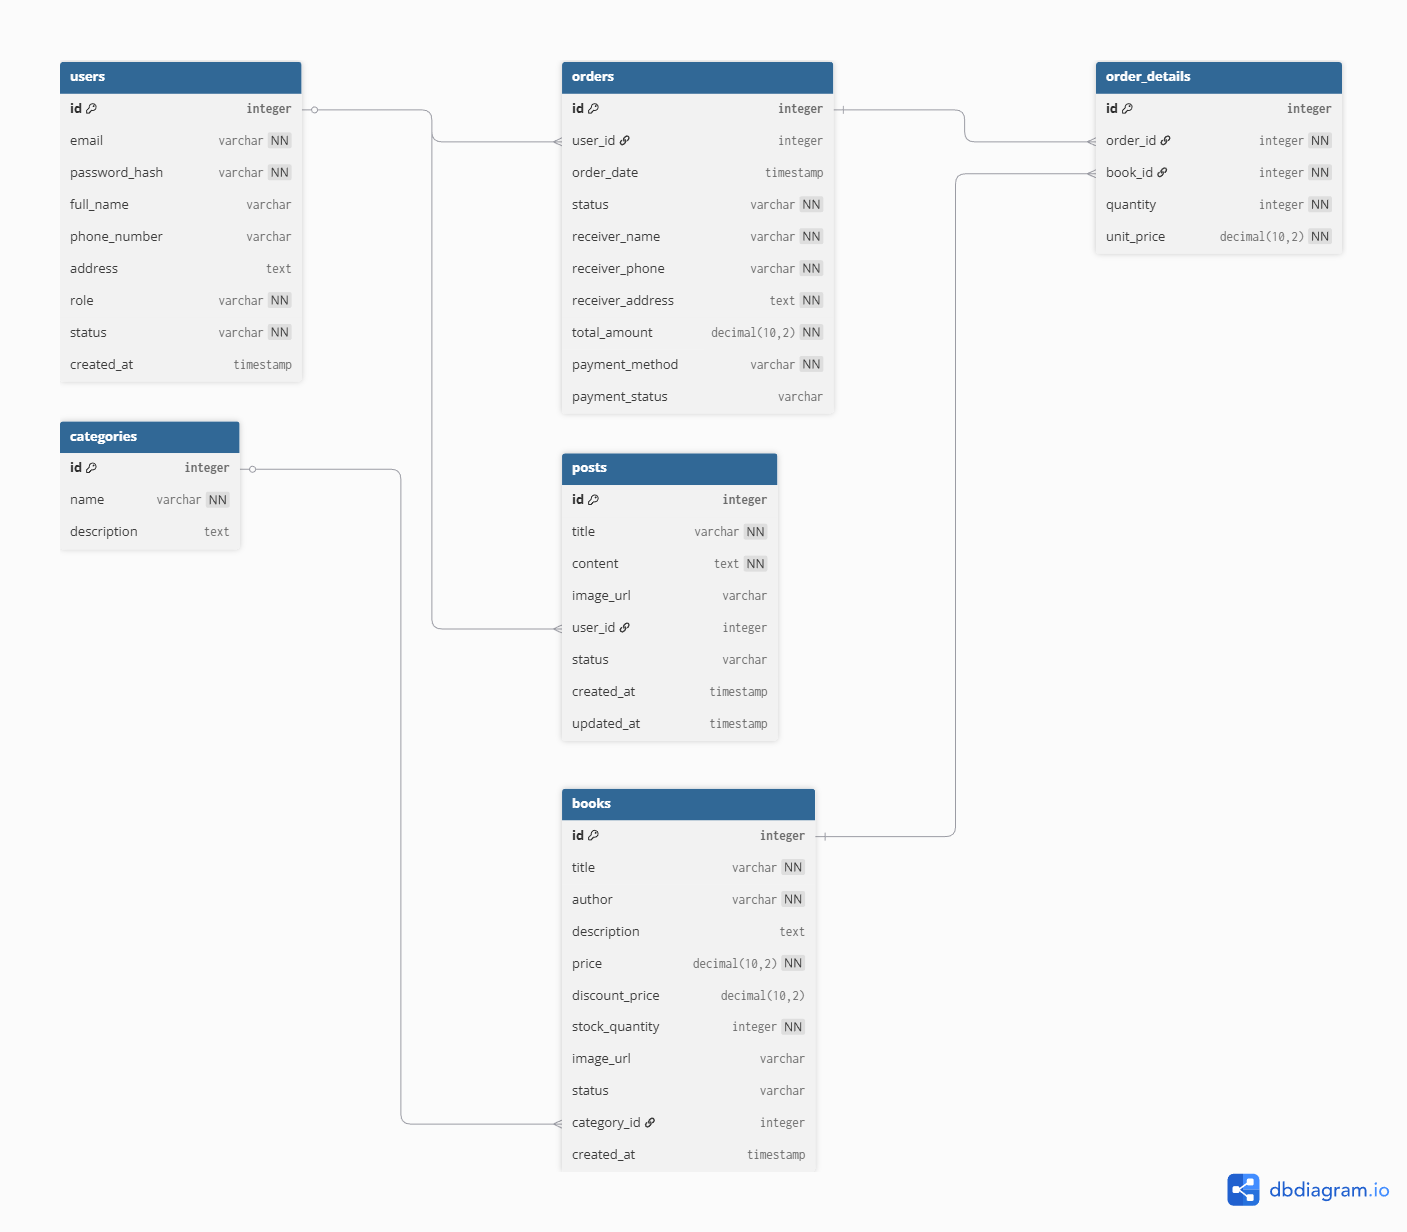
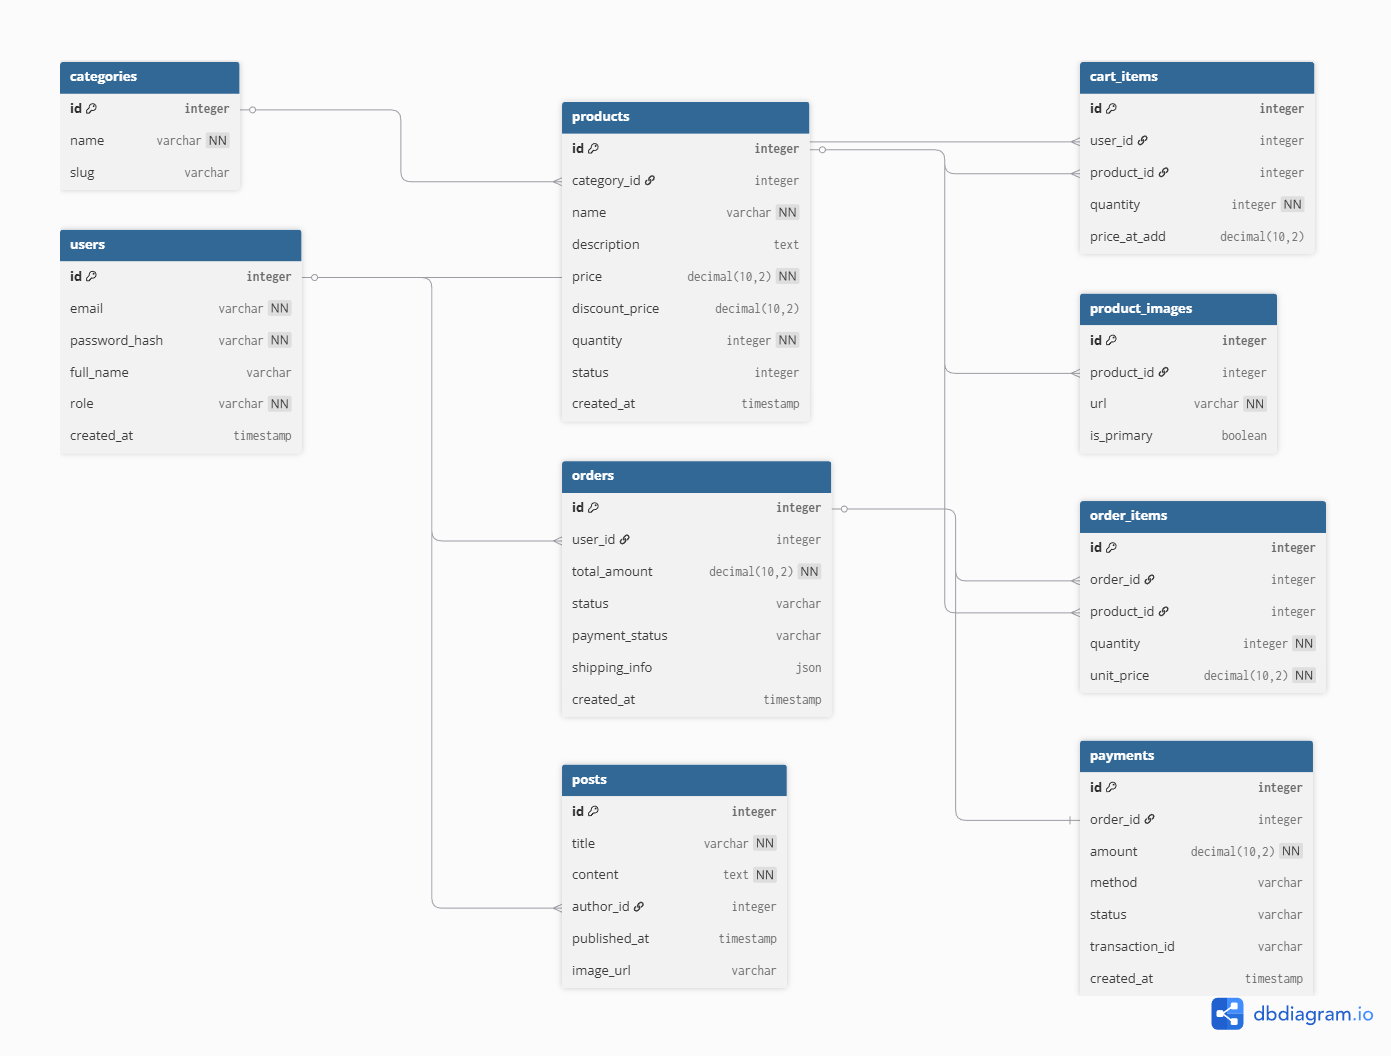
docs: update SRS - ERD - SAD

diff --git a/docs/SRS.md b/docs/SRS.md
@@ -1,6 +1,7 @@
 # SOFTWARE REQUIREMENTS SPECIFICATION (SRS)
-**Project:** BookStation - Online Bookstore
+**Project:** BookStation
 **Version:** 1.0
+**Status:** Released
 
 ## 1. GIỚI THIỆU (INTRODUCTION)
 ### 1.1 Mục đích
@@ -20,41 +21,65 @@ Hệ thống bao gồm:
 
 ![Sơ đồ Use Case BookStation](./assets/usecase.png)
 
-## 4. YÊU CẦU CHỨC NĂNG (FUNCTIONAL REQUIREMENTS)
+## 4. USER STORIES (CÂU CHUYỆN NGƯỜI DÙNG)
+Dưới đây là 6 User Stories cốt lõi của hệ thống:
 
-### 4.1 Phân hệ Public (Guest)
-| ID | Tên chức năng | Mô tả chi tiết |
-|---|---|---|
-| **F-PUB-01** | Xem danh sách sách | Hiển thị sách mới, sách bán chạy, sách giảm giá (dựa trên `DiscountPrice`). Hỗ trợ phân trang. |
-| **F-PUB-02** | Tìm kiếm & Lọc | Tìm theo tên/tác giả. Lọc theo danh mục, khoảng giá. Sắp xếp (A-Z, Giá tăng/giảm). |
-| **F-PUB-03** | Xem chi tiết sách | Hiển thị: Tên, Giá, Giá giảm, Mô tả, Ảnh, Tồn kho, Trạng thái. |
-| **F-PUB-04** | Xem bài viết | Xem danh sách và chi tiết tin tức/blog. |
+1.  **Là Khách hàng**, tôi muốn **xem danh sách và tìm kiếm sách** để **chọn được cuốn sách cần mua**.
+2.  **Là Khách hàng**, tôi muốn **xem chi tiết sách (giá, mô tả, ảnh)** để **ra quyết định mua hàng**.
+3.  **Là Khách hàng**, tôi muốn **thêm sách vào giỏ hàng** để **tiếp tục mua sắm hoặc thanh toán sau**.
+4.  **Là Khách hàng**, tôi muốn **đặt hàng (Checkout)** để **nhận sách giao về địa chỉ của mình**.
+5.  **Là Admin**, tôi muốn **quản lý sách và danh mục** để **cập nhật kho hàng**.
+6.  **Là Admin**, tôi muốn **xem thống kê doanh thu** để **nắm bắt tình hình kinh doanh**.
 
-### 4.2 Phân hệ Khách hàng (Customer)
-| ID | Tên chức năng | Mô tả chi tiết |
-|---|---|---|
-| **F-CUS-01** | Quản lý giỏ hàng | Thêm/Sửa số lượng/Xóa sản phẩm. Tính tổng tiền tạm tính. |
-| **F-CUS-02** | Thanh toán | Nhập thông tin giao hàng -> Chọn phương thức (COD/Chuyển khoản) -> Tạo đơn hàng. |
-| **F-CUS-03** | Quản lý đơn hàng | Xem lịch sử đơn. Trạng thái: *Chờ xác nhận, Đang giao, Hoàn thành, Đã hủy*. |
-| **F-CUS-04** | Profile | Cập nhật thông tin cá nhân. |
+## 5. YÊU CẦU CHỨC NĂNG (FUNCTIONAL REQUIREMENTS)
 
-### 4.3 Phân hệ Quản trị (Admin)
-| ID | Tên chức năng | Mô tả chi tiết |
-|---|---|---|
-| **F-ADM-01** | Dashboard | Biểu đồ doanh thu ngày/tháng. Thống kê tổng quan. |
-| **F-ADM-02** | Quản lý Sản phẩm | CRUD Sách. Fields: Tên, Mô tả, Giá gốc, Giá giảm, Ảnh, Số lượng, Trạng thái (Ẩn/Hiện). |
-| **F-ADM-03** | Quản lý Danh mục | CRUD Danh mục (1 cấp). |
-| **F-ADM-04** | Quản lý Đơn hàng | Xem chi tiết. Cập nhật trạng thái (Duyệt/Giao/Hủy). |
-| **F-ADM-05** | Quản lý Bài viết | CRUD tin tức (Tiêu đề, Nội dung, Hình ảnh). |
-| **F-ADM-06** | Quản lý User | Xem danh sách người dùng hệ thống. |
+### 5.1 Phân hệ Public (Guest - Khách vãng lai)
+| ID | Tên chức năng | Mô tả chi tiết & Yêu cầu nghiệp vụ | Độ ưu tiên |
+|---|---|---|---|
+| **F-PUB-01** | Xem danh sách sách | Hiển thị sách mới, sách bán chạy. Hỗ trợ phân trang, lọc theo Danh mục. | MUST |
+| **F-PUB-02** | Tìm kiếm sách | Tìm kiếm theo tên sách hoặc tên tác giả. | MUST |
+| **F-PUB-03** | Xem chi tiết sách | Hiển thị: Tên, Giá, Giá giảm, Mô tả, Danh sách ảnh (Carousel), Tồn kho, Trạng thái. | MUST |
+| **F-PUB-04** | Xem bài viết | Xem danh sách và chi tiết tin tức/blog. | SHOULD |
+| **F-PUB-05** | Giỏ hàng (Guest) | Thêm/Sửa/Xóa sản phẩm. Lưu tạm trong Cookie/LocalStorage. | MUST |
 
-## 5. YÊU CẦU PHI CHỨC NĂNG (NON-FUNCTIONAL REQUIREMENTS)
+### 5.2 Phân hệ Khách hàng (Customer - Đã đăng nhập)
+*Bao gồm các quyền của Guest, cộng thêm:*
+
+| ID | Tên chức năng | Mô tả chi tiết & Yêu cầu nghiệp vụ | Độ ưu tiên |
+|---|---|---|---|
+| **F-CUS-01** | Đăng ký / Đăng nhập | Đăng ký tài khoản mới. Đăng nhập lấy Token (JWT). | MUST |
+| **F-CUS-02** | Quản lý giỏ hàng (DB) | Đồng bộ giỏ hàng từ LocalStorage vào Database (bảng CartItems) khi đăng nhập. | MUST |
+| **F-CUS-03** | Thanh toán (Checkout) | Nhập thông tin giao hàng (Shipping Info JSON). Chọn phương thức (COD/Banking). Giả lập thanh toán (Mock Payment API). Kiểm tra tồn kho (Transaction). | MUST |
+| **F-CUS-04** | Lịch sử đơn hàng | Xem danh sách đơn đã đặt. Xem trạng thái chi tiết. | MUST |
+| **F-CUS-05** | Quản lý Profile | Cập nhật thông tin cá nhân. | SHOULD |
+| **F-CUS-06** | Tích điểm thưởng | Tính năng mở rộng: Tích điểm dựa trên giá trị đơn hàng. | CAN |
+
+### 5.3 Phân hệ Quản trị (Admin)
+| ID | Tên chức năng | Mô tả chi tiết & Yêu cầu nghiệp vụ | Độ ưu tiên |
+|---|---|---|---|
+| **F-ADM-01** | Dashboard | Biểu đồ doanh thu theo ngày (Recharts). Thống kê tổng đơn, tổng user. | SHOULD |
+| **F-ADM-02** | Quản lý Sản phẩm | CRUD Sách. Fields: Tên, Mô tả, Giá, Giá giảm, Số lượng, Status, Upload nhiều ảnh. | MUST |
+| **F-ADM-03** | Quản lý Danh mục | CRUD Danh mục (Tên, Slug). | MUST |
+| **F-ADM-04** | Quản lý Đơn hàng | Xem danh sách. Cập nhật trạng thái đơn (Duyệt/Giao/Hủy). | MUST |
+| **F-ADM-05** | Quản lý Bài viết | CRUD tin tức (Tiêu đề, Nội dung, Ảnh bìa). | SHOULD |
+| **F-ADM-06** | Quản lý User | Xem danh sách người dùng. | SHOULD |
+
+## 6. THIẾT KẾ CƠ SỞ DỮ LIỆU (ERD)
+Hệ thống bao gồm 9 bảng thực thể chính:
+1. `Users` (Người dùng)
+2. `Categories` (Danh mục)
+3. `Products` (Sản phẩm)
+4. `ProductImages` (Ảnh sản phẩm)
+5. `CartItems` (Giỏ hàng)
+6. `Orders` (Đơn hàng)
+7. `OrderItems` (Chi tiết đơn hàng)
+8. `Payments` (Thanh toán)
+9. `Posts` (Tin tức)
+
+![Sơ đồ ERD Database](./assets/erd-database.png)
+
+## 7. YÊU CẦU PHI CHỨC NĂNG
 - **Hiệu năng:** API phản hồi < 500ms. Hình ảnh được tối ưu hóa.
 - **Bảo mật:** Password Hash (BCrypt). API Authentication (JWT).
 - **Database:** PostgreSQL (Dockerized). Dữ liệu tiền tệ dùng kiểu `Decimal`.
 - **UI/UX:** Responsive trên Mobile/Desktop.
-
-## 6. THIẾT KẾ CƠ SỞ DỮ LIỆU (ERD)
-Hệ thống bao gồm 6 bảng thực thể chính: Users, Books, Categories, Orders, OrderDetails, Posts.
-
-![Sơ đồ ERD Database](./assets/erd-database.png)

diff --git a/docs/SAD.md b/docs/SAD.md
@@ -1,0 +1,91 @@
+# SOFTWARE ARCHITECTURE DOCUMENT (SAD)
+**Project:** BookStation
+**Version:** 1.0
+**Status:** Released
+
+## 1. TỔNG QUAN KIẾN TRÚC (ARCHITECTURE OVERVIEW)
+Hệ thống BookStation được xây dựng theo mô hình **Client-Server**, tách biệt giữa Frontend và Backend (Headless Architecture).
+
+### 1.1 Tech Stack
+* **Frontend:** Next.js (App Router), TypeScript, Tailwind CSS, Zustand, TanStack Query.
+* **Backend:** ASP.NET Core Web API (.NET 8), Entity Framework Core (Npgsql).
+* **Database:** PostgreSQL (Dockerized).
+* **Tools:** Docker, Git (Gitflow), Visual Studio / VS Code.
+
+## 2. CẤU TRÚC DỰ ÁN (PROJECT STRUCTURE)
+Dự án được tổ chức theo mô hình Monorepo. Dưới đây là cấu trúc cây thư mục tổng thể từ Root:
+
+```text
+BookStation/ (Root)
+├── backend/                        # Khu vực Backend (ASP.NET Core)
+│   ├── BookStation/                # Visual Studio Solution Folder
+│   │   └── BookStation.API/        # Main Project (.csproj)
+│   │       ├── Controllers/        # API Endpoints [cite: 168]
+│   │       ├── Services/           # Business Logic [cite: 169]
+│   │       ├── Repositories/       # Data Access Logic [cite: 170]
+│   │       ├── Data/               # DB Context [cite: 171]
+│   │       ├── Migrations/         # EF Core Migrations [cite: 173]
+│   │       ├── Models/             # Entity Classes [cite: 174]
+│   │       ├── DTOs/               # Data Transfer Objects [cite: 175]
+│   │       ├── Mappings/           # AutoMapper Profiles [cite: 176]
+│   │       ├── Program.cs          # Entry point
+│   │       └── appsettings.json    # Configuration
+│   └── sql/                        # SQL Scripts
+│       └── init_db.sql             # Script khởi tạo Database
+│
+├── frontend/                       # Khu vực Frontend (Next.js) [cite: 179]
+│   ├── src/
+│   │   ├── app/                    # Pages & Routing (App Router)
+│   │   ├── components/             # Reusable UI Components
+│   │   ├── hooks/                  # Custom React Hooks
+│   │   ├── lib/                    # API Client, Utils
+│   │   ├── store/                  # State Management (Zustand)
+│   │   ├── types/                  # TypeScript Interfaces
+│   │   └── styles/                 # Global Styles
+│   └── Dockerfile
+│
+├── docs/                           # Tài liệu dự án (M0 Deliverables) [cite: 203]
+│   ├── assets/                     # Hình ảnh thiết kế (ERD, UseCase)
+│   ├── SRS.md                      # Đặc tả yêu cầu
+│   ├── SAD.md                      # Tài liệu kiến trúc
+│   └── API_SPEC.md                 # Đặc tả API
+│
+├── docker-compose.yml              # Orchestration Local Dev [cite: 102]
+└── .gitignore
+
+## 3. LUỒNG XỬ LÝ CHÍNH (KEY FLOWS)
+
+### 3.1 Sơ đồ tuần tự: Đặt hàng (Checkout Sequence)
+Mô tả luồng xử lý khi khách hàng nhấn nút "Đặt hàng".
+
+```mermaid
+sequenceDiagram
+    participant User as Khách hàng
+    participant FE as Frontend (Next.js)
+    participant API as Backend API
+    participant DB as Database
+
+    User->>FE: Nhấn "Đặt hàng" (Checkout)
+    FE->>API: POST /api/orders (Cart info, Shipping info)
+    
+    activate API
+    API->>API: Validate Token & Input
+    API->>DB: Kiểm tra tồn kho (Products)
+    
+    alt Hết hàng
+        DB-->>API: Tồn kho không đủ
+        API-->>FE: Trả lỗi "Sản phẩm hết hàng"
+        FE-->>User: Hiển thị thông báo lỗi
+    else Còn hàng
+        API->>DB: Begin Transaction
+        API->>DB: Tạo Order & OrderItems
+        API->>DB: Trừ tồn kho (Quantity)
+        API->>DB: Xóa CartItems cũ
+        API->>DB: Commit Transaction
+        
+        DB-->>API: Order Created Success
+        API-->>FE: Trả về OrderID + Success
+        FE-->>User: Chuyển trang "Đặt hàng thành công"
+    end
+    deactivate API
+```
